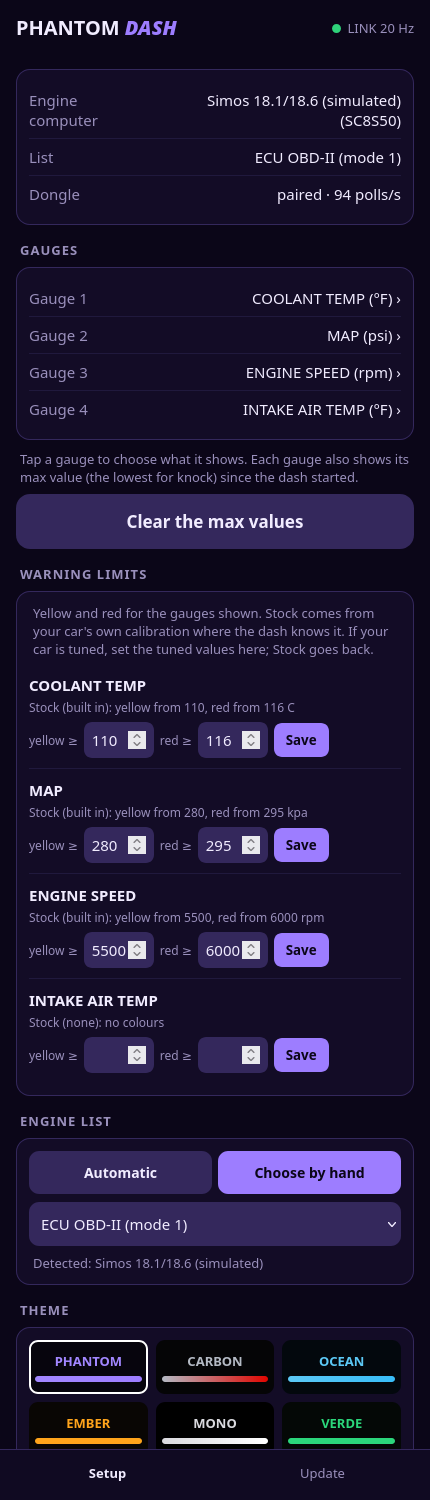
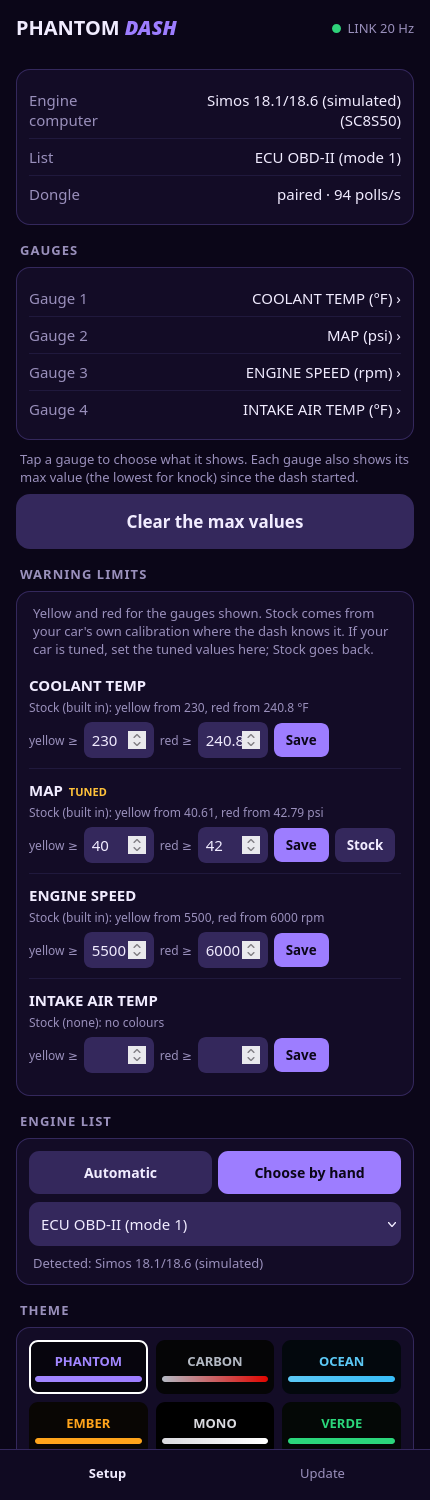
README: warning limits shown in the units the gauge displays (coolant and oil examples in F too); new setup-page picture

diff --git a/README.md b/README.md
@@ -23,7 +23,7 @@ It has **not yet had a long drive or been tested on other cars**, so everything 
 * **Start-up sweep:** at power-on the shift lights and scales sweep once, like an instrument cluster.
 * **Your look:** eight colour themes, six number fonts (digital, italic, condensed, wide, technical, clean), gauges on cards or a minimal layout with thin lines between them, numbers in a gradient or a solid colour, a thin scale under each number (warning zones marked, the max value as a tick), and shift lights in green-to-red or the theme's colours.
 * **Shift lights:** a bar of 16 lights across the top that fills from green to red over the whole rev range, from 1,500 rpm (idle shows nothing) to 6,000 rpm, where the tachometer's red zone starts and the whole bar flashes red.
-* **Warning colours:** a gauge turns yellow, then red. Stock limits come from your own car's factory calibration where the dash knows it (turbo speed, boost and manifold pressure, fuel pump, compressor temperature: yellow where the engine computer starts protecting itself, red at its hard limit), and from limits for the EA888 Gen 3 otherwise (for example coolant 110 / 116 °C, oil 125 / 135 °C). If your car is tuned, set your tune's values on the phone page; one tap goes back to stock. A gauge in the red also flashes its frame, so it catches your eye when you are not looking at it.
+* **Warning colours:** a gauge turns yellow, then red. Stock limits come from your own car's factory calibration where the dash knows it (turbo speed, boost and manifold pressure, fuel pump, compressor temperature: yellow where the engine computer starts protecting itself, red at its hard limit), and from limits for the EA888 Gen 3 otherwise (for example coolant 110 / 116 °C, 230 / 241 °F; oil 125 / 135 °C, 257 / 275 °F). If your car is tuned, set your tune's values on the phone page; one tap goes back to stock. A gauge in the red also flashes its frame, so it catches your eye when you are not looking at it.
 * **Max values:** each gauge shows the highest value since the dash started (the lowest for knock). Clear them from the phone page.
 * **Brightness:** a day and a night level, set from the phone page; the night level follows the dash's clock. The screen also says why the gauges are empty: NO DONGLE, CAR OFF or APP CONNECTED.
 * **Set up from your phone:** pair the dongle, choose the gauges, theme, units, the engine list, the clock, update the firmware, and load a new list of values if you are sent one (no card reader needed). The dash is a live view; it does not record (the dongle is where logging happens).
